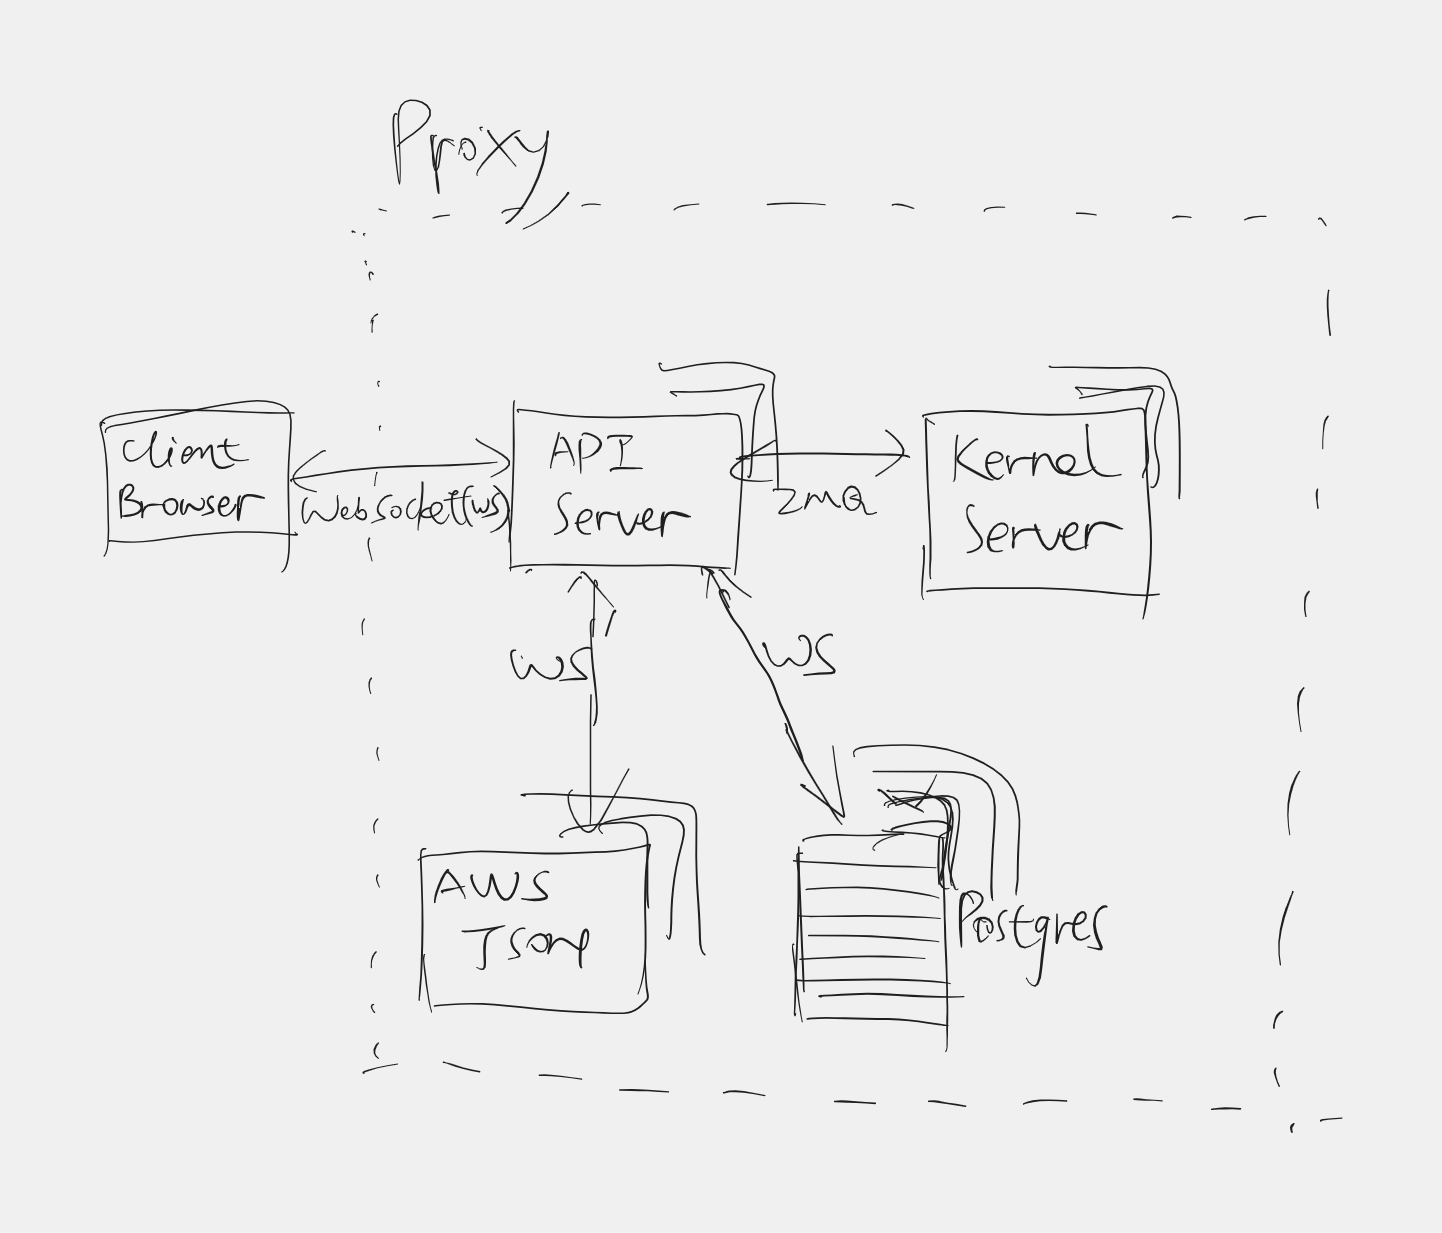
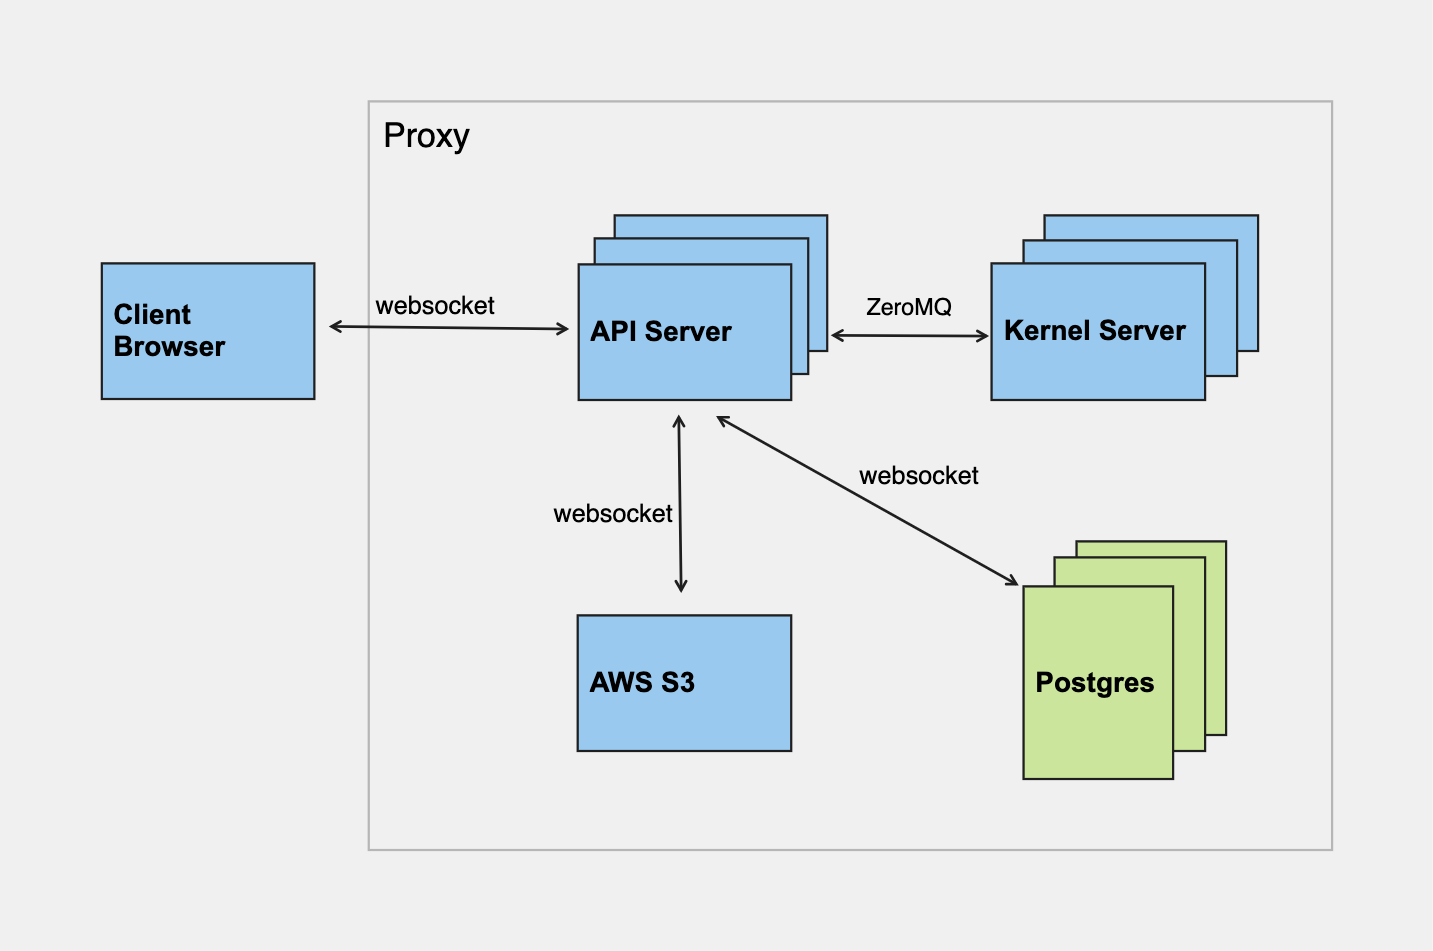
Update system diagram (#10)

diff --git a/docs/4-developer/README.md b/docs/4-developer/README.md
@@ -167,35 +167,38 @@ Then, you can access the new stack at `http://localhost:8080`.
 [Typescript](https://github.com/microsoft/TypeScript)
 
 ### Libraries and Frameworks
+
 - [React](https://react.dev/) framework
-  - [Apollo GraphQL](https://www.apollographql.com/)
-  - [Zustand](https://docs.pmnd.rs/zustand/getting-started/introduction) (scalable state management)
-  - [Monaco](https://github.com/microsoft/monaco-editor) editor
-  - [Remirror](https://github.com/remirror/remirror) rich-text editor
-  - [Material](https://mui.com/core/) UI
-  - [Nano ID](https://github.com/ai/nanoid/blob/HEAD/README.zh-CN.md) UUID generator
-  - [Express](https://expressjs.com/)
+    - [Apollo GraphQL](https://www.apollographql.com/)
+    - [Zustand](https://docs.pmnd.rs/zustand/getting-started/introduction) (scalable state management)
+    - [Monaco](https://github.com/microsoft/monaco-editor) editor
+    - [Remirror](https://github.com/remirror/remirror) rich-text editor
+    - [Material](https://mui.com/core/) UI
+    - [Nano ID](https://github.com/ai/nanoid/blob/HEAD/README.zh-CN.md) UUID generator
+    - [Express](https://expressjs.com/)
 - [Jupyter](https://jupyter-client.readthedocs.io/en/stable/messaging.html)
-  - [ZeroMQ](https://github.com/zeromq/zeromq.js) Node.js bindings 
+    - [ZeroMQ](https://github.com/zeromq/zeromq.js) Node.js bindings
 - [Docker](https://docs.docker.com/compose/compose-file/)
 - [Kubernetes](https://kubernetes.io/docs/concepts/overview/)
-  - [Helm](https://github.com/helm/helm) Chart 
+    - [Helm](https://github.com/helm/helm) Chart
 - Proxy configuration: [NGINX](https://github.com/nginx/nginx)
 - Database: [PostgreSQL](https://www.postgresql.org/) + [Prisma](https://github.com/prisma/prisma)
 
 ### Codepod System Architecture
+
 ![System arch](./Codepod_system_arch.png)
 
 ### Codepod GitHub Repo
 
 - Frontend
-  - [Ui](https://github.com/codepod-io/codepod/tree/main/ui): root folder for Codepod client implementation, it contains the implementation of pod, [Canvas](https://github.com/codepod-io/codepod/blob/main/ui/src/components/Canvas.tsx) and [Scope](https://github.com/codepod-io/codepod/blob/main/ui/src/components/nodes/Scope.tsx)
+    - [Ui](https://github.com/codepod-io/codepod/tree/main/ui): root folder for Codepod client implementation, it contains the implementation of pod, [Canvas](https://github.com/codepod-io/codepod/blob/main/ui/src/components/Canvas.tsx) and [Scope](https://github.com/codepod-io/codepod/blob/main/ui/src/components/nodes/Scope.tsx)
 
 - Backend
-  - [Proxy](https://github.com/codepod-io/codepod/tree/main/proxy): reverse proxy server, it forwards/redirects client requests to proper servers in the backbone.
-  - [Api](https://github.com/codepod-io/codepod/tree/main/api): the API server handles users’ actions on the Codepod client app, it authenticates users, persists the repo, scope and pod states to the Postgres database. 
-  - [Runtime](https://github.com/codepod-io/codepod/tree/main/runtime): Codepod runtime server, http://localhost:4020, this URL is used in the front-end runtime.js to connect to the runtime, it handles the code execution logic on various kernels, e.g., IPython. 
+    - [Proxy](https://github.com/codepod-io/codepod/tree/main/proxy): reverse proxy server, it forwards/redirects client requests to proper servers in the backbone.
+    - [Api](https://github.com/codepod-io/codepod/tree/main/api): the API server handles users’ actions on the Codepod client app, it authenticates users, persists the repo, scope and pod states to the Postgres database.
+    - [Runtime](https://github.com/codepod-io/codepod/tree/main/runtime): Codepod runtime server, <http://localhost:4020>, this URL is used in the front-end runtime.js to connect to the runtime, it handles the code execution logic on various kernels, e.g., IPython.
 
 ### References
+
 - A tutorial for React-based web application development, [WhatsApp-Clone-Tutorial](https://www.tortilla.academy/Urigo/WhatsApp-Clone-Tutorial/master/next/step/0)
-- [Typescript Tutorial](https://github.com/xcatliu/typescript-tutorial) 
+- [Typescript Tutorial](https://github.com/xcatliu/typescript-tutorial)
